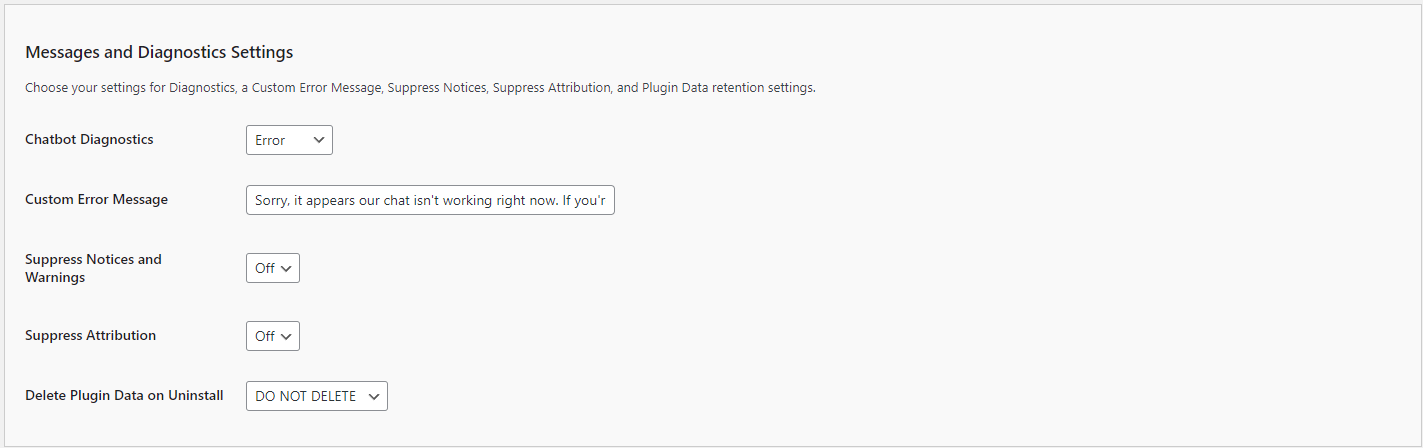
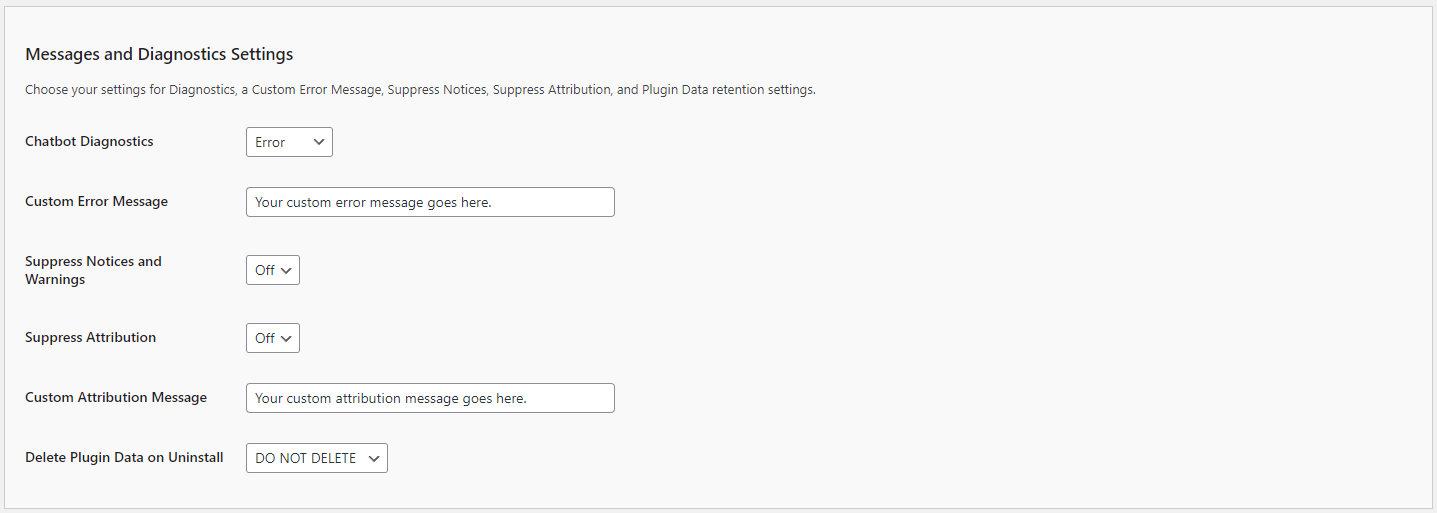
V2.0.9 - Ready for testing

diff --git a/assets/js/chatbot-chatgpt.js b/assets/js/chatbot-chatgpt.js
@@ -646,6 +646,13 @@ jQuery(document).ready(function ($) {
                 removeTypingIndicator();
                 if (botResponse) {
                     appendMessage(botResponse, 'bot');
+                    // FIXME - Add custom JS to the bot's response - Ver 2.0.9
+                    // Append custom JS to the bot's response - Ver 2.0.9
+                    if (typeof appendCustomJsToBotResponse === 'function') {
+                        let customMessage = '';
+                        customMessage = appendCustomJsToBotResponse(botResponse);
+                        appendMessage(customMessage, 'bot');
+                    };
                 }
                 scrollToLastBotResponse();
                 submitButton.prop('disabled', false);
@@ -1261,9 +1268,15 @@ jQuery(document).ready(function ($) {
 
         // If conversation_continuation is enabled, load the conversation from local storage - Ver 2.0.7
         if (localStorage.getItem('chatbot_chatgpt_conversation_continuation') === 'On') {
-            storedConversation = sessionStorage.getItem('chatbot_chatgpt_conversation');
-            // remove autoplay attribute from the audio elements - Ver 2.0.7
-            storedConversation = storedConversation.replace(/autoplay/g, '');
+            let storedConversation = sessionStorage.getItem('chatbot_chatgpt_conversation');
+            
+            // Check if storedConversation is not null before trying to replace
+            if (storedConversation) {
+                // remove autoplay attribute from the audio elements - Ver 2.0.7
+                storedConversation = storedConversation.replace(/autoplay/g, '');
+            } else {
+                // console.log('No conversation found in session storage.');
+            }
         }
 
         if (storedConversation) {

diff --git a/assets/css/chatbot-chatgpt.css b/assets/css/chatbot-chatgpt.css
@@ -462,6 +462,7 @@
 
 .chatbot-attribution {
     text-align: center;
+    font-size: 11px;
 }
 
 .chatbot-attribution-link {

diff --git a/includes/chatbot-shortcode.php b/includes/chatbot-shortcode.php
@@ -647,6 +647,10 @@ function chatbot_chatgpt_shortcode( $atts = [], $content = null, $tag = '' ) {
     // Retrieve the custom buttons on/off setting - Ver 1.6.5
     // $chatbot_chatgpt_enable_custom_buttons = esc_attr(get_option('chatbot_chatgpt_enable_custom_buttons', 'Off'));
 
+    // DIAG - Diagnostics - Ver 2.0.9
+    // back_trace( 'NOTICE', 'kflow_prompt_and_response function status: ' . function_exists('kflow_prompt_and_response'));
+    // back_trace( 'NOTICE', '$atts[\'sequence\']: ' . $atts['sequence']);
+
     // KFlow - Call kflow_prompt_and_response() - Ver 1.9.5
     if (function_exists('kflow_prompt_and_response') and !empty($atts['sequence'])) {
 
@@ -671,9 +675,9 @@ function chatbot_chatgpt_shortcode( $atts = [], $content = null, $tag = '' ) {
         $kflow_prompt = $kflow_data['Prompts'][0];
 
         // DIAG - Diagnostics - Ver 1.9.5
-        // back_trace( 'NOTICE', '$kflow_data: ' . print_r($kflow_data, true));
-        // back_trace( 'NOTICE', '$script_data_array: ' . print_r($script_data_array, true));
-        // back_trace( 'NOTICE', '$kflow_prompt: ' . $kflow_prompt);
+        back_trace( 'NOTICE', '$kflow_data: ' . print_r($kflow_data, true));
+        back_trace( 'NOTICE', '$script_data_array: ' . print_r($script_data_array, true));
+        back_trace( 'NOTICE', '$kflow_prompt: ' . $kflow_prompt);
 
         // A prompt was returned
         if ( $kflow_prompt != '' ) {
@@ -912,7 +916,7 @@ function chatbot_chatgpt_shortcode( $atts = [], $content = null, $tag = '' ) {
                                 });
                                 // Optionally trigger the click if you need to automatically submit on page load
                                 setTimeout(function() {
-                                    submitButton.trigger('click');
+                                    submitButton.click(); // Use plain JS click
                                 }, 500); // Delay of 1 second
                             }
                         });
@@ -921,7 +925,7 @@ function chatbot_chatgpt_shortcode( $atts = [], $content = null, $tag = '' ) {
                     // Preload with a prompt if it is set - Ver 1.9.5
                     if ($use_flow != 'Yes' and !empty($chatbot_chatgpt_hot_bot_prompt)) {
                         // DIAG - Diagnostics - Ver 1.9.0
-                        // back_trace( 'NOTICE', 'chatbot_chatgpt_bot_prompt: ' . $chatbot_chatgpt_bot_prompt);
+                        back_trace( 'NOTICE', 'chatbot_chatgpt_bot_prompt: ' . $chatbot_chatgpt_bot_prompt);
                         $rows = esc_attr(get_option('chatbot_chatgpt_input_rows', '2'));
                         $chatbot_chatgpt_bot_prompt = esc_attr(sanitize_text_field($chatbot_chatgpt_bot_prompt));
                         $chatbot_chatgpt_hot_bot_prompt = esc_attr(sanitize_text_field($chatbot_chatgpt_hot_bot_prompt));
@@ -1031,8 +1035,8 @@ function chatbot_chatgpt_shortcode( $atts = [], $content = null, $tag = '' ) {
                     <?php
                         // Kick off Flow - Ver 1.9.5
                         if ($use_flow == 'Yes' and !empty($sequence_id)) {
-                            // back_trace( 'NOTICE', 'Kick off Flow');
-                            // back_trace( 'NOTICE', 'chatbot_chatgpt_hot_bot_prompt: ' . $chatbot_chatgpt_hot_bot_prompt);
+                            back_trace( 'NOTICE', 'Kick off Flow');
+                            back_trace( 'NOTICE', 'chatbot_chatgpt_hot_bot_prompt: ' . $chatbot_chatgpt_hot_bot_prompt);
                             // Store the prompt in a hidden input instead of directly in the textarea
                             echo "<input type='hidden' id='chatbot-chatgpt-message' value='" . htmlspecialchars($chatbot_chatgpt_hot_bot_prompt, ENT_QUOTES) . "'>";
                             // echo "<textarea id='chatbot-chatgpt-message' rows='2' placeholder='$chatbot_chatgpt_bot_prompt' style='width: 95%;'></textarea>";
@@ -1044,10 +1048,11 @@ function chatbot_chatgpt_shortcode( $atts = [], $content = null, $tag = '' ) {
                                     submitButton.addEventListener('click', function() {
                                         // Use the value from the hidden input when submitting
                                         var promptToSubmit = hiddenInput.value;
+    
                                     });
                                     // Optionally trigger the click if you need to automatically submit on page load
                                     setTimeout(function() {
-                                        submitButton.trigger('click');
+                                        submitButton.click(); // Use plain JS click
                                     }, 500); // Delay of 1 second
                                 }
                             });
@@ -1236,14 +1241,23 @@ function chatbot_chatgpt_custom_buttons_display() {
 function chatbot_chatgpt_attribution () {
 
     $chatbot_chatgpt_suppress_attribution = esc_attr(get_option('chatbot_chatgpt_suppress_attribution', 'Off'));
+    $chatbot_chatgpt_custom_attribution = esc_attr(get_option('chatbot_chatgpt_custom_attribution', 'Your custom attribution message goes here.'));
     // DIAG - Diagnostics - Ver 1.6.5
     // back_trace( 'NOTICE', 'chatbot_chatgpt_suppress_attribution: ' . $chatbot_chatgpt_suppress_attribution);
     if ($chatbot_chatgpt_suppress_attribution == 'Off') {
-        ?>
-        <div class="chatbot-attribution">
-            <a href="https://kognetiks.com/wordpress-plugins/kognetiks-chatbot/?utm_source=chatbot&utm_medium=website&utm_campaign=powered_by&utm_id=plugin" target="_blank" rel="noopener noreferrer" class="chatbot-attribution-link"><?php echo esc_html('Chatbot WordPress plugin by Kognetiks'); ?></a>
-        </div>
-        <?php
+        if ($chatbot_chatgpt_custom_attribution == 'Your custom attribution message goes here.' || empty($chatbot_chatgpt_custom_attribution)) { 
+            ?>
+            <div class="chatbot-attribution">
+                <a href="https://kognetiks.com/wordpress-plugins/kognetiks-chatbot/?utm_source=chatbot&utm_medium=website&utm_campaign=powered_by&utm_id=plugin" target="_blank" rel="noopener noreferrer" class="chatbot-attribution-link"><?php echo esc_html('Chatbot WordPress plugin by Kognetiks'); ?></a>
+            </div>
+            <?php
+        } else {
+            ?>
+            <div class="chatbot-attribution">
+                <p><?php echo $chatbot_chatgpt_custom_attribution; ?></p>
+            </div>
+            <?php
+        }
     }
 
 }

diff --git a/includes/settings/chatbot-settings-diagnostics.php b/includes/settings/chatbot-settings-diagnostics.php
@@ -21,6 +21,7 @@ function chatbot_chatgpt_diagnostics_settings_init() {
     register_setting('chatbot_chatgpt_diagnostics', 'chatbot_chatgpt_custom_error_message');
     register_setting('chatbot_chatgpt_diagnostics', 'chatbot_chatgpt_suppress_notices');
     register_setting('chatbot_chatgpt_diagnostics', 'chatbot_chatgpt_suppress_attribution');
+    register_setting('chatbot_chatgpt_diagnostics', 'chatbot_chatgpt_custom_attribution');
     register_setting('chatbot_chatgpt_diagnostics', 'chatbot_chatgpt_delete_data');
 
     add_settings_section(
@@ -93,6 +94,14 @@ function chatbot_chatgpt_diagnostics_settings_init() {
         'chatbot_chatgpt_suppress_attribution',
         'Suppress Attribution',
         'chatbot_chatgpt_suppress_attribution_callback',
+        'chatbot_chatgpt_diagnostics',
+        'chatbot_chatgpt_diagnostics_section'
+    );
+
+    add_settings_field(
+        'chatbot_chatgpt_custom_attribution',
+        'Custom Attribution Message',
+        'chatbot_chatgpt_custom_attribution_callback',
         'chatbot_chatgpt_diagnostics',
         'chatbot_chatgpt_diagnostics_section'
     );
@@ -214,6 +223,17 @@ function chatbot_chatgpt_suppress_attribution_callback($args) {
         <option value="On" <?php selected( $chatbot_chatgpt_suppress_attribution, 'On' ); ?>><?php echo esc_html( 'On' ); ?></option>
         <option value="Off" <?php selected( $chatbot_chatgpt_suppress_attribution, 'Off' ); ?>><?php echo esc_html( 'Off' ); ?></option>
     </select>
+    <?php
+}
+
+// Alternate Attribution Text - Ver 2.0.9
+function chatbot_chatgpt_custom_attribution_callback($args) {
+    $chatbot_chatgpt_custom_attribution = esc_attr(get_option('chatbot_chatgpt_custom_attribution', 'Your custom attribution message goes here.'));
+    if ( $chatbot_chatgpt_custom_attribution === null || $chatbot_chatgpt_custom_attribution === '' ) {
+        $chatbot_chatgpt_custom_attribution = 'Your custom attribution message goes here.';
+    }
+    ?>
+    <input type="text" id="chatbot_chatgpt_custom_attribution" name="chatbot_chatgpt_custom_attribution" value="<?php echo esc_html( $chatbot_chatgpt_custom_attribution ); ?>" size="50">
     <?php
 }
 

diff --git a/includes/chatbot-call-flow-api.php b/includes/chatbot-call-flow-api.php
@@ -34,12 +34,12 @@ function chatbot_chatgpt_call_flow_api($api_key, $message) {
     global $kflow_data;
 
     // DIAG - Diagnostics - Ver 1.8.6
-    // back_trace( 'NOTICE', 'chatbot_chatgpt_call_flow_api()');
-    // back_trace( 'NOTICE', 'BEGIN $user_id: ' . $user_id);
-    // back_trace( 'NOTICE', 'BEGIN $page_id: ' . $page_id);
-    // back_trace( 'NOTICE', 'BEGIN $session_id: ' . $session_id);
-    // back_trace( 'NOTICE', 'BEGIN $thread_id: ' . $thread_id);
-    // back_trace( 'NOTICE', 'BEGIN $assistant_id: ' . $assistant_id);
+    back_trace( 'NOTICE', 'chatbot_chatgpt_call_flow_api()');
+    back_trace( 'NOTICE', 'BEGIN $user_id: ' . $user_id);
+    back_trace( 'NOTICE', 'BEGIN $page_id: ' . $page_id);
+    back_trace( 'NOTICE', 'BEGIN $session_id: ' . $session_id);
+    back_trace( 'NOTICE', 'BEGIN $thread_id: ' . $thread_id);
+    back_trace( 'NOTICE', 'BEGIN $assistant_id: ' . $assistant_id);
 
     // Fetch the KFlow data
     // $sequence_id = $script_data_array['sequence_id'];
@@ -49,7 +49,7 @@ function chatbot_chatgpt_call_flow_api($api_key, $message) {
     $kflow_data = kflow_get_sequence_data($kflow_sequence);
 
     // DIAG - Diagnostics - Ver 1.9.5
-    // back_trace( 'NOTICE', '$kflow_data: ' . print_r($kflow_data, true));
+    back_trace( 'NOTICE', '$kflow_data: ' . print_r($kflow_data, true));
 
     // Count the number of 'Steps' in the KFlow data
     $kflow_data['total_steps'] = count($kflow_data['Steps']);
@@ -115,7 +115,7 @@ function chatbot_chatgpt_call_flow_api($api_key, $message) {
 
     // Add message to conversation log
     // DIAG Diagnostics
-    // back_trace( 'NOTICE', '$message: ' . $message);
+    back_trace( 'NOTICE', '$message: ' . $message);
 
     append_message_to_conversation_log($session_id, $user_id, $page_id, 'Chatbot', $thread_id, $assistant_id, $message);
 

diff --git a/chatbot-chatgpt.php b/chatbot-chatgpt.php
@@ -794,7 +794,7 @@ function chatbot_chatgpt_send_message() {
 
             // FIXME - Append extra message - Ver 2.0.9
             $extra_message = esc_attr(get_option('chatbot_chatgpt_extra_message', ''));
-            $extra_message = '\r\nDanger Will Robinson! Danger!';
+            // $extra_message = '  Danger Will Robinson! Danger!';
             $response = chatbot_chatgpt_append_extra_message($response, $extra_message);
 
             // Return response

diff --git a/documentation/messages/messages.md b/documentation/messages/messages.md
@@ -59,7 +59,12 @@ The Messages and Diagnostics Settings help you monitor the health and performanc
    - **Options**: `On` or `Off`.
    - **Selection**: Choose `On` to suppress the attribution message. Set to `Off` to display the message.
 
-5. **Delete Plugin Data on Uninstall**:
+5. **Custom Attribution Message**:
+   - **Description**: This setting allows administrators to define a custom attribution message that will be displayed to users.
+   - **Options**: Any text string that you want to use as the attribution message.
+   - **Tip**: To remove custom attribution, just delete the value and save your settings.
+
+6. **Delete Plugin Data on Uninstall**:
    - **Description**: Determines whether to delete all plugin data when the plugin is uninstalled.
    - **Options**: `Yes` or `No`.
    - **Selection**: Choose `Yes` to delete all data when uninstalling the plugin, ensuring no residual data remains. Select `No` to retain data even after uninstallation, which can be useful if you plan to reinstall the plugin later.

diff --git a/documentation/overview.md b/documentation/overview.md
@@ -11,6 +11,7 @@ The **Kognetiks Chatbot for WordPress** is powered by OpenAI, via it's API and M
 ## What's New in Version 2.0.9
 
 * **Adjusted Module Name Conflict**: Renamed one module that was had a name found to be in conflict with another vendor's plugin.
+* **Alternate Attribution Message**: Allows for replacing the attribution message with 'Chatbot WOrdPress plugin by Kognetiks' with a text message of your choosing.
 * **Refactored Inline Styles**: Moved inline styles to an external CSS file for better maintainability and separation of concerns.
 * **floating-style CSS Class Rename**: Renamed the .floating-style CSS class to chatbot-floating-style to avoid conflicts with other plugins or themes.
 * **embedded-style CSS Class Rename**: Renamed the .embedded-style CSS class to chatbot-embedded-style to avoid conflicts with other plugins or themes.

diff --git a/README.md b/README.md
@@ -7,6 +7,7 @@ The **Kognetiks Chatbot for WordPress** plugin project is centered around revolu
 ## What's New in Version 2.0.9
 
 * **Adjusted Module Name Conflict**: Renamed one module that was had a name found to be in conflict with another vendor's plugin.
+* **Alternate Attribution Message**: Allows for replacing the attribution message with 'Chatbot WOrdPress plugin by Kognetiks' with a text message of your choosing.
 * **Refactored Inline Styles**: Moved inline styles to an external CSS file for better maintainability and separation of concerns.
 * **floating-style CSS Class Rename**: Renamed the .floating-style CSS class to chatbot-floating-style to avoid conflicts with other plugins or themes.
 * **embedded-style CSS Class Rename**: Renamed the .embedded-style CSS class to chatbot-embedded-style to avoid conflicts with other plugins or themes.
